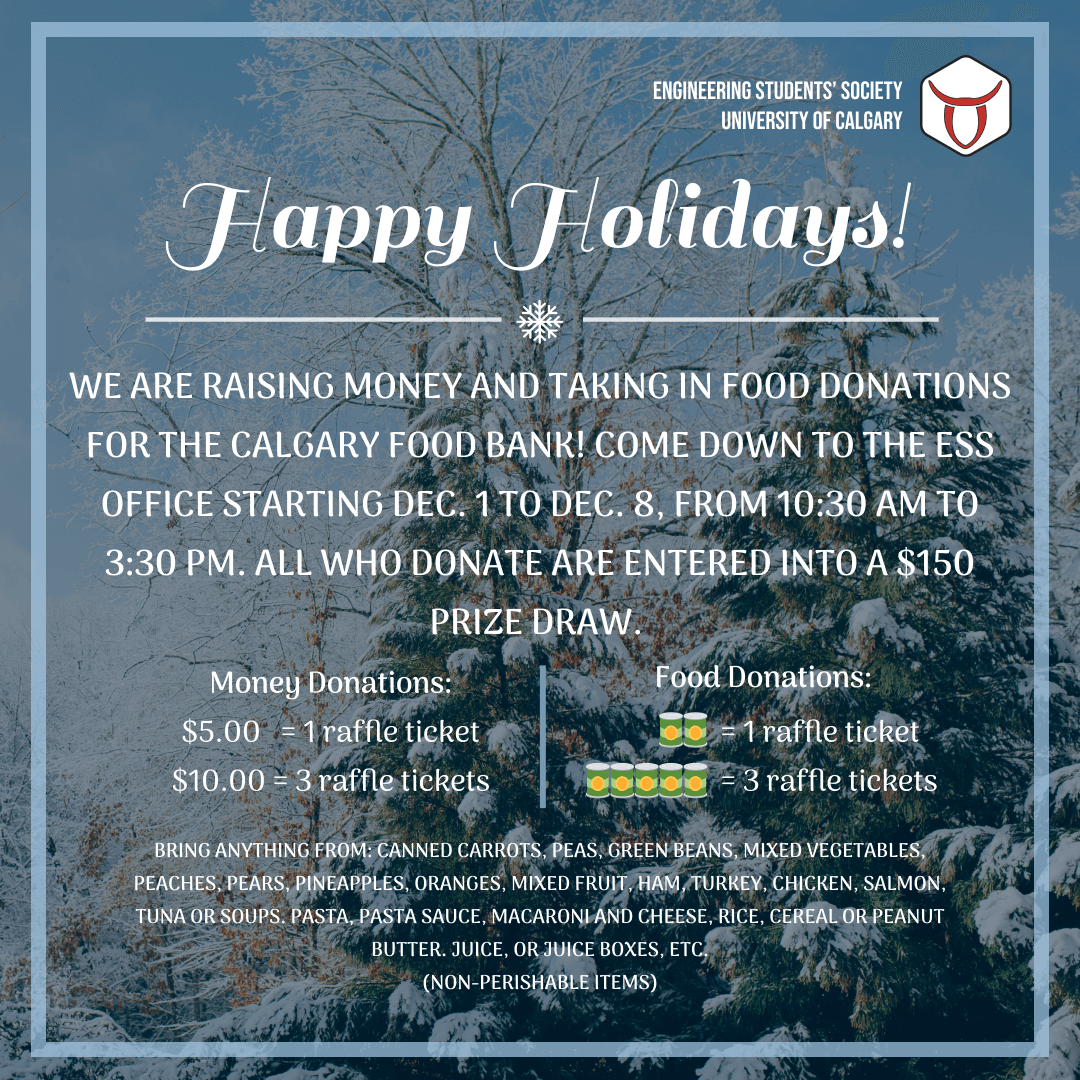
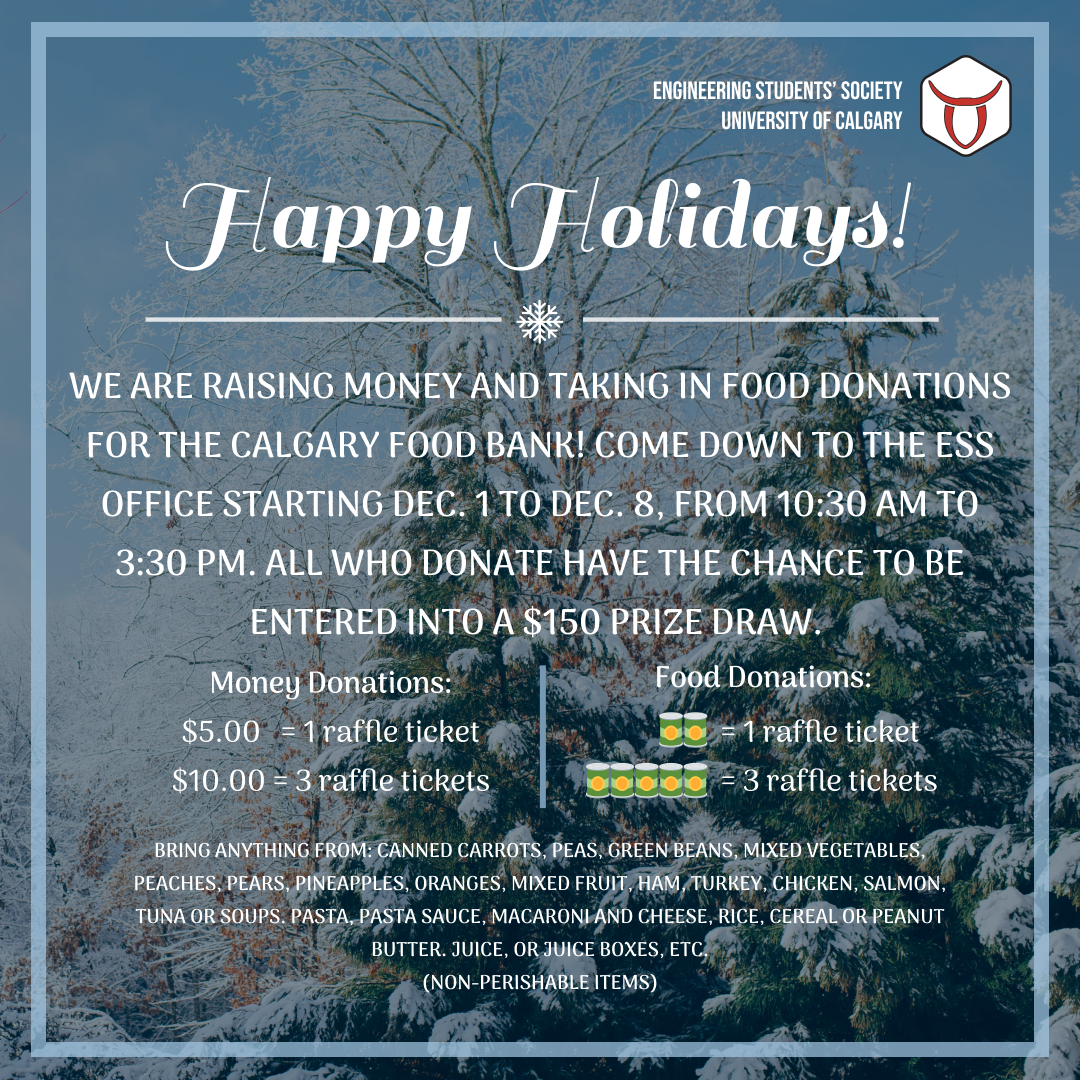
feat: update hompage holiday

Changed region(s): [[0.0917, 0.4889, 0.9167, 0.6111]]

diff --git a/content/english/events/holidayfundraiser.md b/content/english/events/holidayfundraiser.md
@@ -10,6 +10,6 @@ aliases : [
 ---
 
 # Holiday Fundraiser
-ESS needs your help! We want to give back this holiday season, and what better way than to donate to the Calgary Food Bank. Starting December 1st until December 8th, we will be accepting both money and food donations, and all those who donate will automatically be entered into a $150 Visa Gift-card raffle! The Food Bank’s top needs are: Canned Tomatoes, Kraft Dinner, Canned Beans, Canned Fruit, and Peanut Butter, but feel free to bring any of the non-perishables listed above. Come down to the ESS Office anytime during office hours! Happy Holidays! 
+ESS needs your help! We want to give back this holiday season, and what better way than to donate to the Calgary Food Bank. Starting December 1st until December 8th, we will be accepting both money and food donations, and all those who donate have the chance to enter a $150 Visa Gift-card raffle! The Food Bank’s top needs are: Canned Tomatoes, Kraft Dinner, Canned Beans, Canned Fruit, and Peanut Butter, but feel free to bring any of the non-perishables listed above. Come down to the ESS Office anytime during office hours! Happy Holidays!
 
 ![Holiday Fundraiser Poster](/images/events/2021/holidayfundposter.png)
